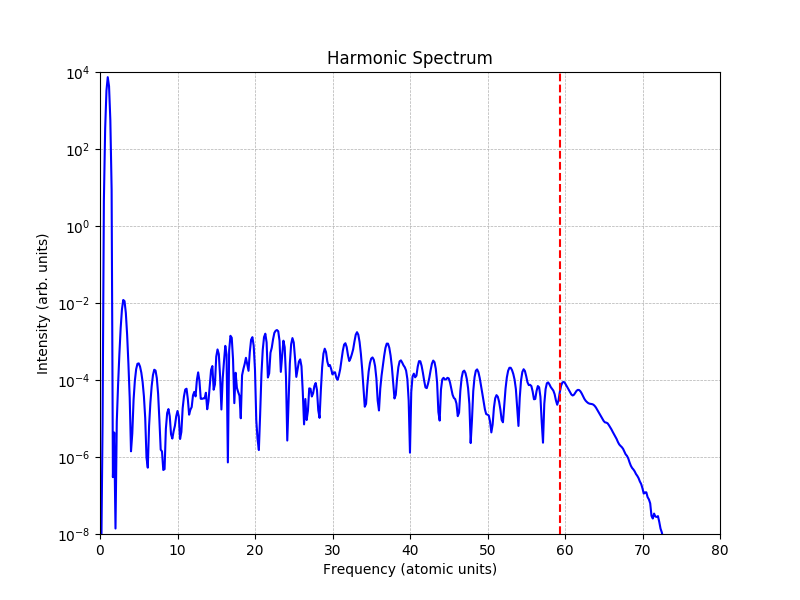
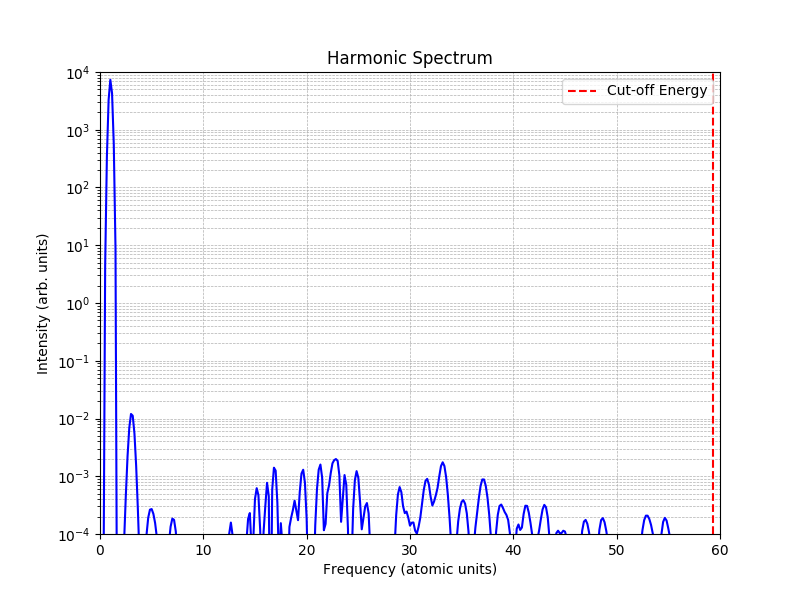
updated plot

diff --git a/observable.py b/observable.py
@@ -53,7 +53,7 @@ if "PES" in sys.argv:
     data = np.loadtxt("PES_files/pes.txt")
     pes_cpp = data[:,1]
     e_cpp  = data[:,0]
-    plt.semilogy(e_cpp,pes_cpp,label = "C++")
+    plt.semilogy(e_cpp,pes_cpp,label = "PES")
     plt.legend()
     plt.savefig("images/pes.png")
     # os.system("mv pes.png ~/Research/TDSE_PETSC/")
@@ -73,16 +73,16 @@ if "PES" in sys.argv:
     kz = pad_k*np.cos(pad_theta)
 
     max_val = np.max(pad_p)
-    min_val = max_val*1e-3
+    min_val = max_val*1e-6
 
     cmap = "hot_r"
 
     fig,ax = plt.subplots()
 
-    #norm = mcolors.LogNorm(vmin=min_val,vmax=max_val)
+    norm = mcolors.LogNorm(vmin=min_val,vmax=max_val)
     #norm = mcolors.Normalize(vmin=min_val,vmax=max_val)
 
-    #sc = ax.scatter(kx,kz,c=pad_p,norm=norm,cmap=cmap)
+    sc = ax.scatter(kx,kz,c=pad_p,norm=norm,cmap=cmap)
     #sc = ax.scatter(kx,ky,c=pad_p,norm=norm,cmap=cmap)
     ax.set_aspect("equal",adjustable = "box")
     fig.colorbar(sc,ax=ax)
@@ -207,6 +207,7 @@ if "HHG" in sys.argv:
     plt.ylabel('Intensity (arb. units)')
     plt.title('Harmonic Spectrum')
     plt.grid(True, which='both', ls='--', lw=0.5)
+    plt.legend()
     plt.savefig("images/harmonic_spectrum.png")
     plt.clf()
 

diff --git a/README.md b/README.md
@@ -83,8 +83,8 @@ wavefunction has reached the absorbing boundary.**
 - **CMake:** Version 3.14 
 - **PETSc:** Version 3.22.2 
 - **SLEPc:** Version 3.22.2
-- **GSL** Version 2.8
-- **Nlohmann Json:** 
+- **GSL:** Version 2.8
+- **Nlohmann Json** 
 
 ## Input File Guide
 
